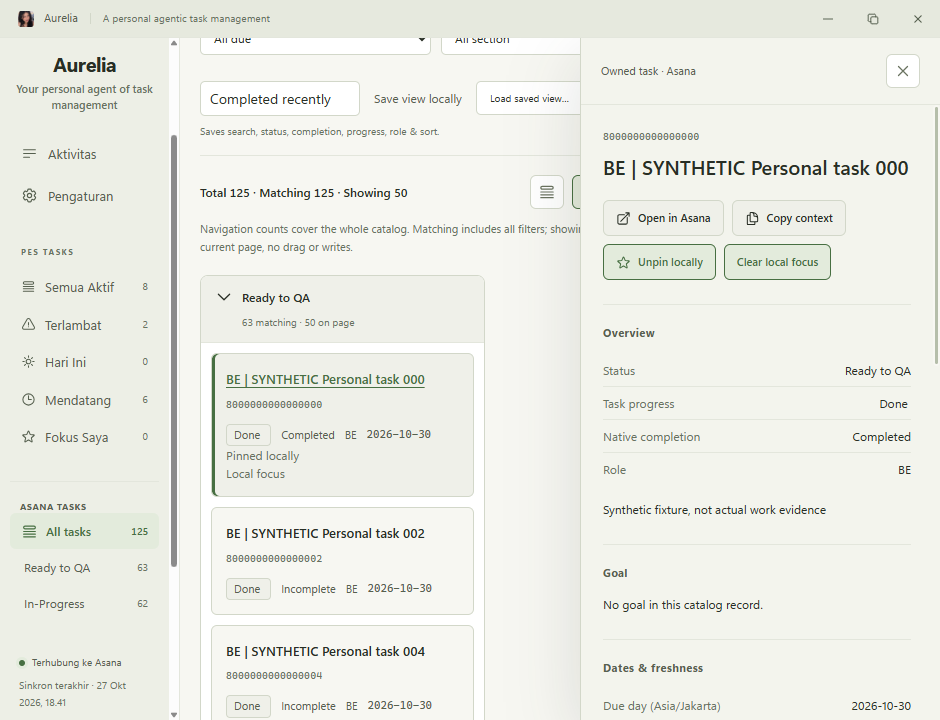
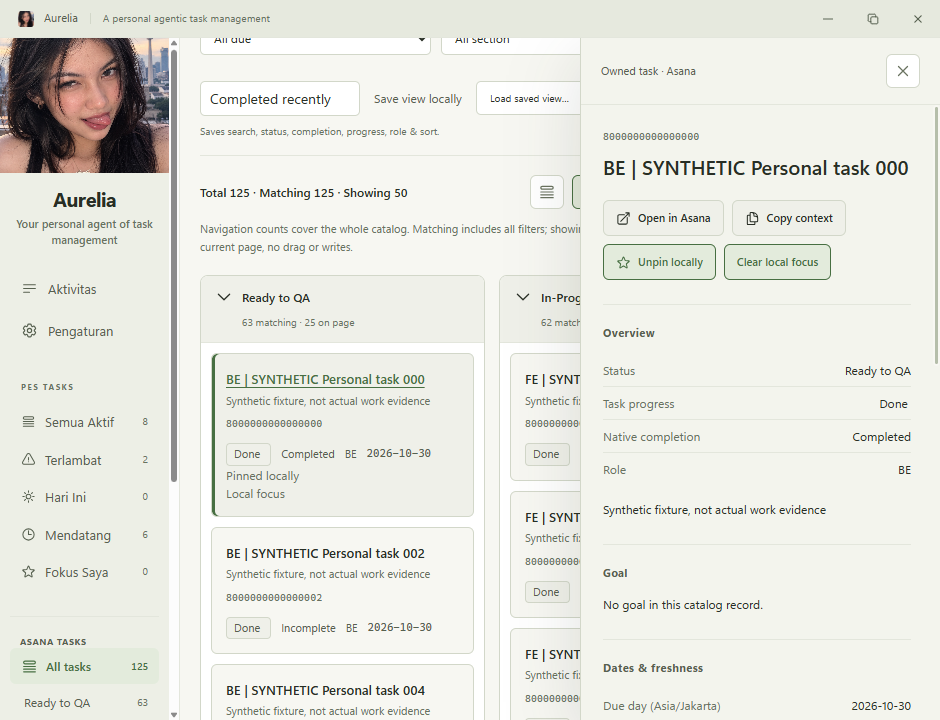
feat: order all tasks by descending date time and show Asana task descriptions on rows

diff --git a/desktop/src/renderer/asana/AsanaPanel.tsx b/desktop/src/renderer/asana/AsanaPanel.tsx
@@ -79,6 +79,7 @@ export function AsanaPanel({state,status,onStatus,timezone,onNotify}:{state:Asan
  const progress=[...new Map(tasks.map(t=>[t.progress.gid??'unset',rawOption(t.progress)])).entries()];
  const sections=[...new Map(tasks.flatMap(t=>t.memberships.filter(m=>m.sectionGid).map(m=>[m.sectionGid!,m.sectionName??m.sectionGid!] as [string,string]))).entries()];
  const titleButton=(t:AsanaTask)=><button className="asana-task-title asana-raw" data-testid={`asana-title-${t.gid}`} aria-expanded={selected===t.gid} onClick={e=>selectTask(t,e.currentTarget)}>{taskTitle(t)}</button>;
+ const taskDesc=(t:AsanaTask)=>(t.notes||t.goal||'').trim();
  const labels=(t:AsanaTask)=><><span className="asana-pill asana-raw">{rawOption(t.progress)}</span><span>{t.completed?'Completed':'Incomplete'}</span><span>{t.role||'Unset role'}</span><time>{civilDue(t,timezone)??'No due date'}</time></>;
  return <main ref={root} className={`asana-workspace ${dense?'asana-dense':''}`} data-testid="asana-panel">
   <div className="asana-content">
@@ -92,7 +93,7 @@ export function AsanaPanel({state,status,onStatus,timezone,onNotify}:{state:Asan
     <Filter name="Role" value={query.role} options={[...new Set(tasks.map(t=>t.role))].sort().map(role=>[role,role||'Unset'])} onChange={role=>change({role})}/>
     <Filter name="Due" value={query.due} options={[["overdue","Overdue · incomplete only"],["today","Today"],["upcoming","After today"],["none","No valid due date"]]} onChange={due=>change({due})}/>
     <Filter name="Section" value={query.section} options={[["unset","Unset section"],...sections]} onChange={section=>change({section})}/>
-    <label className="asana-filter"><span>Sort</span><select data-testid="asana-sort" value={query.sort} onChange={e=>change({sort:e.target.value})}><option value="name">Title A–Z</option><option value="due">Due day · earliest</option><option value="modified">Modified · latest</option><option value="gid">GID</option></select></label>
+    <label className="asana-filter"><span>Sort</span><select data-testid="asana-sort" value={query.sort} onChange={e=>change({sort:e.target.value})}><option value="modified">Modified · latest</option><option value="due">Due day · earliest</option><option value="name">Title A–Z</option><option value="gid">GID</option></select></label>
    </div>
    <div className="asana-saved"><label><span className="asana-sr-only">Saved view name</span><input data-testid="asana-view-name" placeholder="Name this view" maxLength={80} value={viewName} onChange={e=>setViewName(e.target.value)}/></label><button className="text-button" disabled={busy||!viewName.trim()} onClick={()=>{const name=viewName.trim();savePreferences({savedViews:[...preferences.savedViews.filter(v=>v.name!==name),{name,query:query.query,status,completion:query.completion,progress:query.progress,role:query.role,sort:query.sort}]});}}>Save view locally</button><label><span className="asana-sr-only">Load saved view</span><select data-testid="asana-saved-views" value="" onChange={e=>{const view=preferences.savedViews.find(v=>v.name===e.target.value);if(view){setQuery({...defaultQuery,query:view.query,completion:view.completion,progress:view.progress,role:view.role,sort:view.sort});onStatus(view.status);setViewName(view.name);}}}><option value="">Load saved view…</option>{preferences.savedViews.map(v=><option key={v.name}>{v.name}</option>)}</select></label>{preferences.savedViews.some(v=>v.name===viewName)&&<button className="text-button" disabled={busy} onClick={()=>savePreferences({savedViews:preferences.savedViews.filter(v=>v.name!==viewName)})}>Remove saved view</button>}<span className="asana-muted">Saves search, status, completion, progress, role & sort.</span></div>
    <div className="asana-list-toolbar"><p data-testid="asana-count" aria-live="polite">{`Total ${model.total} · Matching ${model.matching} · Showing ${shown}`}</p><div className="asana-actions"><button className="icon-button" aria-label="Grouped list" aria-pressed={mode==='list'} onClick={()=>setMode('list')}><QueueListIcon/></button><button className="icon-button" data-testid="asana-board-toggle" aria-label="Read-only board" aria-pressed={mode==='board'} onClick={()=>setMode('board')}><Squares2X2Icon/></button><button className="text-button" aria-pressed={dense} onClick={()=>setDense(!dense)}>Compact</button><label><span className="asana-sr-only">Export format</span><select value={exportFormat} onChange={e=>setExportFormat(e.target.value as 'csv'|'json')}><option value="csv">CSV</option><option value="json">JSON</option></select></label><button className="button" data-testid="asana-export" disabled={busy||!model.matching} onClick={()=>void action(()=>api().exportTasks(exportFormat,model.allMatching.map(t=>t.gid)),'Matching tasks exported')}><ArrowDownTrayIcon/>Export matching ({model.matching})</button></div></div>
@@ -100,7 +101,7 @@ export function AsanaPanel({state,status,onStatus,timezone,onNotify}:{state:Asan
    <div className={`asana-list ${mode==='board'?'asana-board':''}`} data-testid="asana-list" onKeyDown={e=>{if(!['ArrowDown','ArrowUp','Home','End'].includes(e.key)||(e.target as HTMLElement).dataset.testid?.startsWith('asana-title-')!==true)return;const rows=[...e.currentTarget.querySelectorAll<HTMLButtonElement>('.asana-task-title')];const index=rows.indexOf(e.target as HTMLButtonElement);const next=e.key==='Home'?0:e.key==='End'?rows.length-1:Math.max(0,Math.min(rows.length-1,index+(e.key==='ArrowDown'?1:-1)));rows[next]?.focus();e.preventDefault();}}>
     {!model.matching&&<div className="asana-empty"><h2>{state?.snapshot?'No matching tasks':'No local catalog yet'}</h2><p>{state?.snapshot?'Change filters or reset to see all cached tasks, including completed and untitled records.':'Reload the local catalog to begin. No sample data is shown as live.'}</p></div>}
     {groups.map(group=><section className="asana-group" key={group.key}><h2><button aria-expanded={!collapsed.has(group.key)} data-testid={`asana-group-${group.key}`} onClick={()=>toggle(group.key)}>{collapsed.has(group.key)?<ChevronRightIcon/>:<ChevronDownIcon/>}<span className="asana-raw">{group.label}</span><span>{model.allMatching.filter(t=>(t.status.gid??'unset')===group.key).length} matching · {group.count} on page</span></button></h2>
-     {!collapsed.has(group.key)&&(mode==='list'?<table><caption className="asana-sr-only">{group.label} tasks on current page</caption><thead><tr><th scope="col">Task</th><th scope="col">Progress</th><th scope="col">Completion</th><th scope="col">Role</th><th scope="col">Due day</th></tr></thead><tbody>{model.tasks.filter(t=>(t.status.gid??'unset')===group.key).map(t=><tr key={t.gid} data-testid={`asana-row-${t.gid}`} data-selected={t.gid===selected}><td>{titleButton(t)}<div className="asana-row-meta"><span className="task-id">{t.gid}</span>{preferences.pinned.includes(t.gid)&&<span>Pinned locally</span>}{preferences.focusGid===t.gid&&<span>Local focus</span>}</div></td><td className="asana-raw">{rawOption(t.progress)}</td><td>{t.completed?'Completed':'Incomplete'}</td><td className="asana-raw">{t.role||'Unset'}</td><td><time>{civilDue(t,timezone)??'—'}</time></td></tr>)}</tbody></table>:<div className="asana-cards">{model.tasks.filter(t=>(t.status.gid??'unset')===group.key).map(t=><article data-testid={`asana-row-${t.gid}`} key={t.gid} data-selected={t.gid===selected}>{titleButton(t)}<p className="task-id">{t.gid}</p><div className="asana-card-facts">{labels(t)}</div>{preferences.pinned.includes(t.gid)&&<p className="asana-muted">Pinned locally</p>}{preferences.focusGid===t.gid&&<p className="asana-muted">Local focus</p>}</article>)}</div>)}
+     {!collapsed.has(group.key)&&(mode==='list'?<table><caption className="asana-sr-only">{group.label} tasks on current page</caption><thead><tr><th scope="col">Task</th><th scope="col">Progress</th><th scope="col">Completion</th><th scope="col">Role</th><th scope="col">Due day</th></tr></thead><tbody>{model.tasks.filter(t=>(t.status.gid??'unset')===group.key).map(t=><tr key={t.gid} data-testid={`asana-row-${t.gid}`} data-selected={t.gid===selected}><td>{titleButton(t)}{taskDesc(t)?<p className="asana-row-desc">{taskDesc(t)}</p>:null}<div className="asana-row-meta"><span className="task-id">{t.gid}</span>{preferences.pinned.includes(t.gid)&&<span>Pinned locally</span>}{preferences.focusGid===t.gid&&<span>Local focus</span>}</div></td><td className="asana-raw">{rawOption(t.progress)}</td><td>{t.completed?'Completed':'Incomplete'}</td><td className="asana-raw">{t.role||'Unset'}</td><td><time>{civilDue(t,timezone)??'—'}</time></td></tr>)}</tbody></table>:<div className="asana-cards">{model.tasks.filter(t=>(t.status.gid??'unset')===group.key).map(t=><article data-testid={`asana-row-${t.gid}`} key={t.gid} data-selected={t.gid===selected}>{titleButton(t)}{taskDesc(t)?<p className="asana-row-desc">{taskDesc(t)}</p>:null}<p className="task-id">{t.gid}</p><div className="asana-card-facts">{labels(t)}</div>{preferences.pinned.includes(t.gid)&&<p className="asana-muted">Pinned locally</p>}{preferences.focusGid===t.gid&&<p className="asana-muted">Local focus</p>}</article>)}</div>)}
     </section>)}
    </div>
    <footer className="asana-pagination"><label>Per page <select aria-label="Tasks per page" value={query.pageSize} onChange={e=>change({pageSize:Number(e.target.value)})}>{[25,50,100].map(n=><option key={n}>{n}</option>)}</select></label><div className="asana-actions"><button className="button" data-testid="asana-prev" disabled={model.page<=1} onClick={()=>setQuery(q=>({...q,page:model.page-1}))}>Previous</button><span data-testid="asana-page">Page {model.page} / {model.pages}</span><button className="button" data-testid="asana-next" disabled={model.page>=model.pages} onClick={()=>setQuery(q=>({...q,page:model.page+1}))}>Next</button></div></footer>

diff --git a/desktop/src/renderer/App.tsx b/desktop/src/renderer/App.tsx
@@ -57,7 +57,7 @@ export default function App() {
   const [asanaState, setAsanaState] = useState<AsanaState | null>(null);
   const [asanaStatus, setAsanaStatus] = useState('all');
   const [page, setPage] = useState<Page>('tasks'); const [view, setView] = useState<View>('all');
-  const [query, setQuery] = useState(''); const [status, setStatus] = useState('all'); const [sort, setSort] = useState('deadline');
+  const [query, setQuery] = useState(''); const [status, setStatus] = useState('all'); const [sort, setSort] = useState('date-desc');
   const [selectedId, setSelectedId] = useState<string | null>(null); const [now, setNow] = useState(new Date());
   const [isDetailOpen, setIsDetailOpen] = useState(false);
   const [detailWidth, setDetailWidth] = useState<number>(() => {
@@ -199,7 +199,10 @@ export default function App() {
     const order = {overdue:0,today:1,upcoming:2,unknown:3};
     return base.filter(({task,deadline}) => view === 'all' || (view === 'focus' ? isFocus(task.TaskNo) : deadline.kind === view)).sort((a,b) => {
       if (sort === 'name') return a.task.TaskName.localeCompare(b.task.TaskName,'id') || a.task.TaskNo.localeCompare(b.task.TaskNo);
-      return order[a.deadline.kind] - order[b.deadline.kind] || (a.deadline.dueIso ?? '9999').localeCompare(b.deadline.dueIso ?? '9999') || a.task.TaskNo.localeCompare(b.task.TaskNo);
+      if (sort === 'deadline') return order[a.deadline.kind] - order[b.deadline.kind] || (a.deadline.dueIso ?? '9999').localeCompare(b.deadline.dueIso ?? '9999') || a.task.TaskNo.localeCompare(b.task.TaskNo);
+      const dateA = a.task.TglInput || a.deadline.dueIso || '';
+      const dateB = b.task.TglInput || b.deadline.dueIso || '';
+      return dateB.localeCompare(dateA) || b.task.TaskNo.localeCompare(a.task.TaskNo);
     });
   }, [base,view,sort,isFocus]);
   const selected = tasks.find(task => task.TaskNo === selectedId);
@@ -239,7 +242,7 @@ export default function App() {
         {state.sync.phase === 'success' && state.snapshot?.diff && <div className="snapshot-diff"><CheckIcon/><span>{state.snapshot.diff.added} baru · {state.snapshot.diff.changed} berubah · {state.snapshot.diff.scopeChanged ? 'cakupan berubah; jumlah keluar tidak dibandingkan' : `${state.snapshot.diff.outOfScope} tidak lagi di cakupan (bukan status selesai)`}</span></div>}
         </>}
         {page === 'asana' && <AsanaPanel state={asanaState} status={asanaStatus} onStatus={setAsanaStatus} timezone={tz} onNotify={notify}/>}
-        {page === 'tasks' && <><section className="summary" aria-label="Ringkasan hasil pencarian dan status"><div><strong>{counts.all}</strong><span>aktif</span></div><div className="urgent"><strong>{counts.overdue}</strong><span>terlambat</span></div><div><strong>{counts.today}</strong><span>hari ini</span></div><div><strong>{counts.upcoming}</strong><span>mendatang</span></div><span className="summary-scope">Mengikuti pencarian & status</span></section><div className="list-toolbar"><label className="search-field"><MagnifyingGlassIcon/><input ref={searchRef} data-testid="search-input" aria-label="Cari tasks" value={query} onChange={e => setQuery(e.target.value)} placeholder="Cari tasks, nomor, atau tujuan…"/><kbd>Ctrl K</kbd></label><div className="filter-row"><label className="select-wrap"><FunnelIcon/><select aria-label="Filter status" value={status} onChange={e => setStatus(e.target.value)}><option value="all">Semua status</option><option value="Approval">Approval</option><option value="Open">Open</option></select></label><label className="select-wrap sort-wrap"><select aria-label="Urutkan tasks" value={sort} onChange={e => setSort(e.target.value)}><option value="deadline">Tenggat terdekat</option><option value="name">Nama tasks A–Z</option></select></label>{(query || status !== 'all' || sort !== 'deadline' || view !== 'all') && <button className="text-button" onClick={() => {setQuery('');setStatus('all');setSort('deadline');setView('all');}}>Reset</button>}</div></div><div className="list-heading"><h2>{views.find(v => v.id === view)?.label} <span>{visible.length}</span></h2><span>{view === 'focus' ? 'Organisasi pribadi · tidak mengubah PES' : 'Approval & Open · sumber PES'}</span></div>
+        {page === 'tasks' && <><section className="summary" aria-label="Ringkasan hasil pencarian dan status"><div><strong>{counts.all}</strong><span>aktif</span></div><div className="urgent"><strong>{counts.overdue}</strong><span>terlambat</span></div><div><strong>{counts.today}</strong><span>hari ini</span></div><div><strong>{counts.upcoming}</strong><span>mendatang</span></div><span className="summary-scope">Mengikuti pencarian & status</span></section><div className="list-toolbar"><label className="search-field"><MagnifyingGlassIcon/><input ref={searchRef} data-testid="search-input" aria-label="Cari tasks" value={query} onChange={e => setQuery(e.target.value)} placeholder="Cari tasks, nomor, atau tujuan…"/><kbd>Ctrl K</kbd></label><div className="filter-row"><label className="select-wrap"><FunnelIcon/><select aria-label="Filter status" value={status} onChange={e => setStatus(e.target.value)}><option value="all">Semua status</option><option value="Approval">Approval</option><option value="Open">Open</option></select></label><label className="select-wrap sort-wrap"><select aria-label="Urutkan tasks" value={sort} onChange={e => setSort(e.target.value)}><option value="date-desc">Tanggal terbaru</option><option value="deadline">Tenggat terdekat</option><option value="name">Nama tasks A–Z</option></select></label>{(query || status !== 'all' || sort !== 'date-desc' || view !== 'all') && <button className="text-button" onClick={() => {setQuery('');setStatus('all');setSort('date-desc');setView('all');}}>Reset</button>}</div></div><div className="list-heading"><h2>{views.find(v => v.id === view)?.label} <span>{visible.length}</span></h2><span>{view === 'focus' ? 'Organisasi pribadi · tidak mengubah PES' : 'Approval & Open · sumber PES'}</span></div>
           {view === 'all' && base.some(item => item.deadline.kind === 'unknown') && <p className="unknown-note"><ClockIcon/>{base.filter(item => item.deadline.kind === 'unknown').length} tasks tanpa tanggal valid tetap ditampilkan; tidak dihitung sebagai terlambat.</p>}
           {view === 'focus' && state.focusTaskId && !tasks.some(t => t.TaskNo === state.focusTaskId) && <div className="missing-focus"><StarIcon/><div><strong>Fokus Anda di luar snapshot saat ini</strong><p>{state.focusTaskId} tetap disimpan sebagai pilihan lokal. Ini tidak berarti tasks selesai.</p></div><button className="text-button" onClick={() => void call(() => window.pes.setFocus(null))}>Lepas fokus</button></div>}
           {view === 'focus' && state.focusTaskId && tasks.some(t => t.TaskNo === state.focusTaskId) && <button className="focus-feature" onClick={() => selectTask(state.focusTaskId)}><BoltIcon/><div><span className="eyebrow">FOKUS BERIKUTNYA</span><strong>{tasks.find(t => t.TaskNo === state.focusTaskId)?.TaskName}</strong><span>{tasks.find(t => t.TaskNo === state.focusTaskId)?.GoalTask || 'Buka detail untuk melihat konteks tasks.'}</span></div><ChevronRightIcon/></button>}

diff --git a/desktop/src/renderer/asana/view-model.ts b/desktop/src/renderer/asana/view-model.ts
@@ -1,6 +1,6 @@
 import type { AsanaTask, AsanaOption, AsanaSnapshot } from '../../shared/asana-types';
 export type Query = {query:string;status:string;progress:string;completion:string;role:string;due:string;section:string;sort:string;page:number;pageSize:number};
-export const defaultQuery:Query={query:'',status:'all',progress:'all',completion:'all',role:'all',due:'all',section:'all',sort:'name',page:1,pageSize:50};
+export const defaultQuery:Query={query:'',status:'all',progress:'all',completion:'all',role:'all',due:'all',section:'all',sort:'modified',page:1,pageSize:50};
 export const rawOption=(option:AsanaOption)=>option.name ?? (option.gid ? `Unknown (${option.gid})` : 'Unset');
 export const taskTitle=(task:AsanaTask)=>!task.name.trim() ? 'Untitled task' : task.name;
 export function statusGroups(tasks:AsanaTask[], options:AsanaSnapshot['statusOptions']=[]) {
@@ -24,8 +24,10 @@ export function queryTasks(tasks:AsanaTask[], q:Query, timezone='UTC', today=civ
  const overdue=(task:AsanaTask)=>!task.completed&&(task.dueAt&&Number.isFinite(Date.parse(task.dueAt))?Date.parse(task.dueAt)<now:!!civilDue(task,timezone)&&civilDue(task,timezone)!<today);
  const matching=unique.filter(t=>(q.status==='all'||(t.status.gid??'unset')===q.status)&&(q.progress==='all'||(t.progress.gid??'unset')===q.progress)&&(q.completion==='all'||t.completed===(q.completion==='completed'))&&(q.role==='all'||t.role===q.role)&&(q.section==='all'||(q.section==='unset'?!t.memberships.some(m=>m.sectionGid):t.memberships.some(m=>m.sectionGid===q.section)))&& (q.due==='all'||(q.due==='none'?!civilDue(t,timezone):q.due==='overdue'?overdue(t):q.due==='today'?civilDue(t,timezone)===today:!!civilDue(t,timezone)&&civilDue(t,timezone)!>today))&&(!search||[t.gid,t.name,t.notes,t.goal,...t.fields.map(f=>f.displayValue??'')].some(s=>s.toLocaleLowerCase().includes(search))));
  matching.sort((a,b)=>{
-  const key=(t:AsanaTask)=>q.sort==='due'?civilDue(t,timezone)??'9999-99-99':q.sort==='modified'?t.modifiedAt??'':q.sort==='gid'?t.gid:taskTitle(t).toLocaleLowerCase();
-  return (q.sort==='modified'?-1:1)*cmp(key(a),key(b))||cmp(a.gid,b.gid);
+  const dateKey=(t:AsanaTask)=>t.modifiedAt||(t.dueAt?t.dueAt:t.dueOn?`${t.dueOn}T00:00:00Z`:'')||t.lastSeenAt||'';
+  if(q.sort==='modified'){return -1*cmp(dateKey(a),dateKey(b))||cmp(a.gid,b.gid);}
+  const key=(t:AsanaTask)=>q.sort==='due'?civilDue(t,timezone)??'9999-99-99':q.sort==='gid'?t.gid:taskTitle(t).toLocaleLowerCase();
+  return cmp(key(a),key(b))||cmp(a.gid,b.gid);
  });
  const size=Math.max(1,q.pageSize), pages=Math.max(1,Math.ceil(matching.length/size)),page=Math.max(1,Math.min(q.page,pages));
  return {total:unique.length,matching:matching.length,tasks:matching.slice((page-1)*size,page*size),allMatching:matching,page,pages};

diff --git a/desktop/src/renderer/asana.css b/desktop/src/renderer/asana.css
@@ -77,6 +77,8 @@
 .asana-group [data-selected="true"] { background: var(--accent-soft); box-shadow: inset 3px 0 var(--accent); }
 .asana-task-title { display: block; width: 100%; background: transparent; padding: 0; color: var(--text-primary); font-weight: 550; text-align: left; line-height: 1.65; font-size: 13px; }
 .asana-task-title:hover { color: var(--accent); text-decoration: underline; text-underline-offset: 3px; }
+.asana-row-desc { font-size: 11px; line-height: 1.5; color: var(--text-muted); margin: 3px 0 5px; display: -webkit-box; -webkit-line-clamp: 2; -webkit-box-orient: vertical; overflow: hidden; text-overflow: ellipsis; white-space: pre-wrap; word-break: break-word; }
+.asana-dense .asana-row-desc { margin: 2px 0 3px; -webkit-line-clamp: 1; }
 .asana-row-meta { display: flex; flex-wrap: wrap; align-items: baseline; gap: 5px 10px; color: var(--accent); font-size: 10px; margin-top: 5px; }
 .asana-workspace .task-id { color: var(--text-muted); font-size: 10px; overflow-wrap: anywhere; }
 .asana-workspace time { font-size: 11px; }
